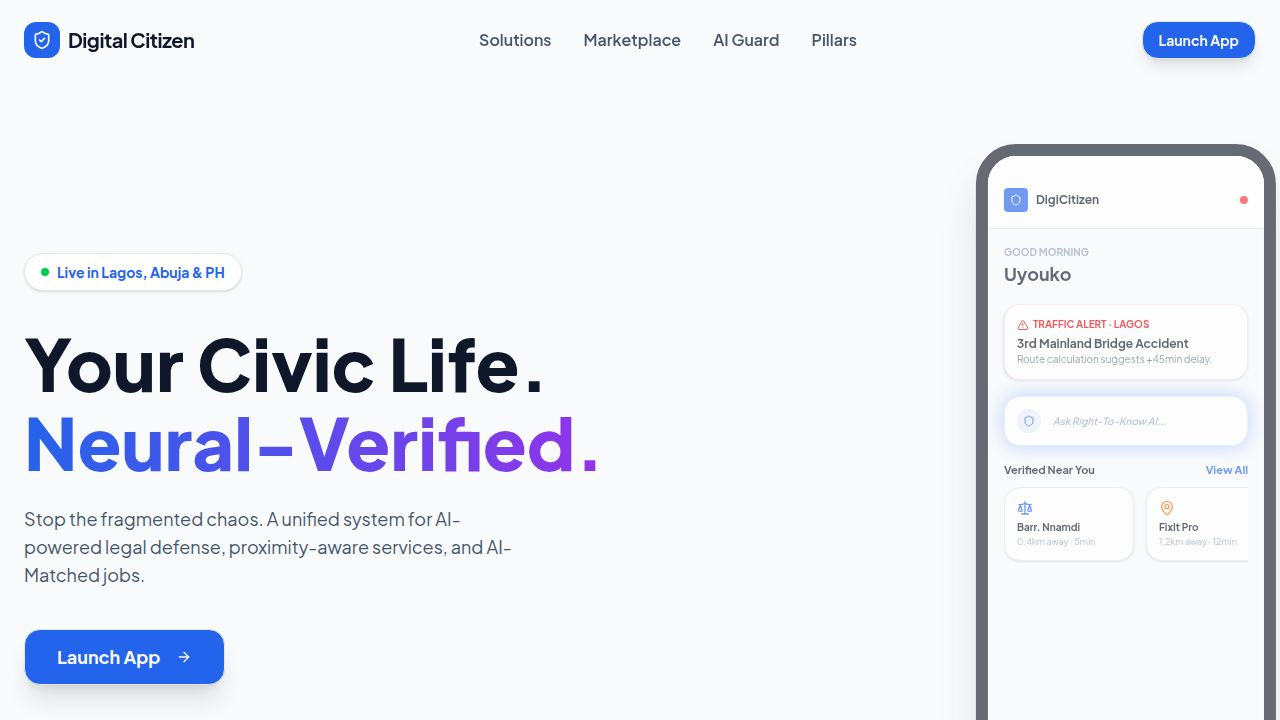
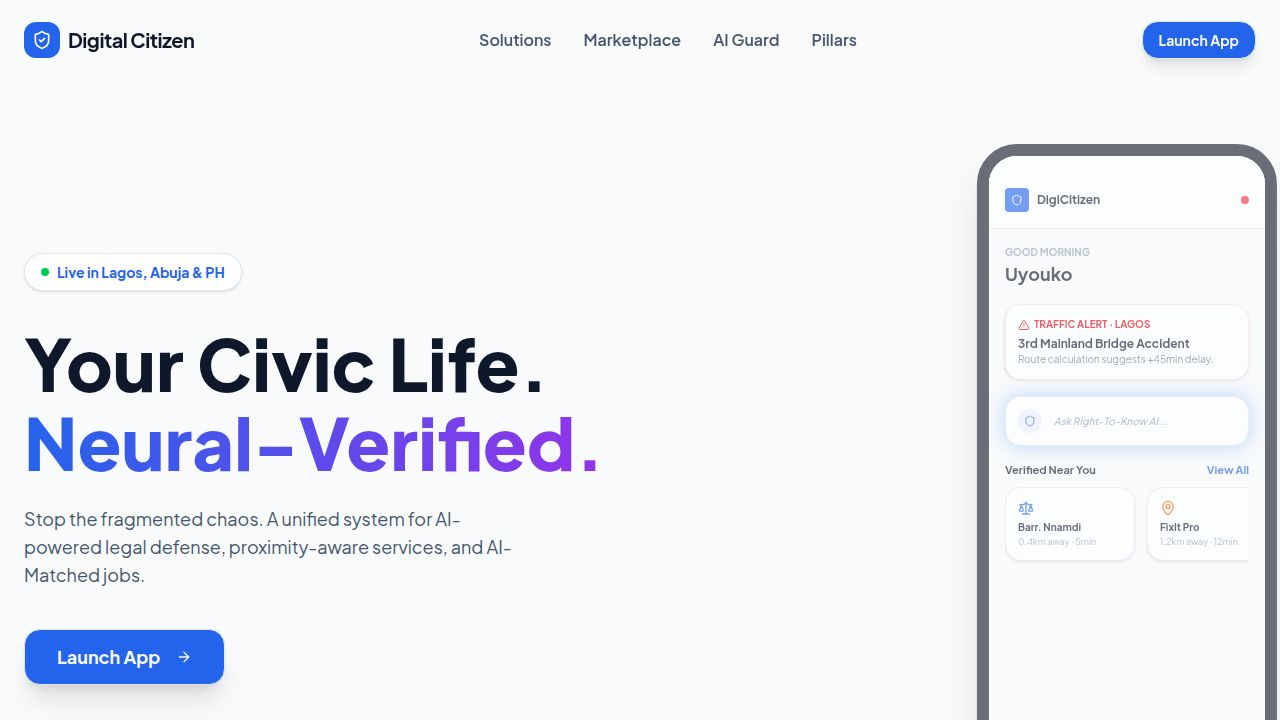
Update app branding and navigation to SabiRight
Rename app to SabiRight, update navigation links to SabiGuard, SabiMove, SabiMarket, and SabiSquare, and replace the default logo with the SabiRight icon.

Replit-Commit-Author: Agent
Replit-Commit-Session-Id: 5164c6ee-1e2a-4729-91ba-0cf92a8722cb
Replit-Commit-Checkpoint-Type: full_checkpoint
Replit-Commit-Event-Id: afcaaadd-c9e1-4691-9ad5-5dc7ecdb8021
Replit-Commit-Screenshot-Url: https://storage.googleapis.com/screenshot-production-us-central1/676fe46c-89a2-403b-a68c-b116a8b372ad/5164c6ee-1e2a-4729-91ba-0cf92a8722cb/mpSRrzM
Replit-Helium-Checkpoint-Created: true

diff --git a/client/src/components/layout/Navbar.tsx b/client/src/components/layout/Navbar.tsx
@@ -34,27 +34,32 @@ export function Navbar() {
     >
       <div className="max-w-7xl mx-auto px-6 h-full flex justify-between items-center">
         <Link href="/" className="flex items-center gap-2 group cursor-pointer">
-          <div className="bg-primary text-white w-9 h-9 rounded-lg flex items-center justify-center group-hover:scale-110 transition-transform">
-            <ShieldCheck className="h-5 w-5" />
-          </div>
+          <img 
+            src="/assets/sabiright-icon.png" 
+            alt="SabiRight" 
+            className="w-9 h-9 rounded-lg group-hover:scale-110 transition-transform"
+            onError={(e) => {
+              (e.target as HTMLImageElement).style.display = 'none';
+            }}
+          />
           <span className="text-xl font-bold tracking-tight text-slate-900">
-            Digital Citizen
+            SabiRight
           </span>
         </Link>
 
         {/* Desktop Menu */}
         <div className="hidden md:flex gap-8 font-semibold text-slate-600">
-          <button onClick={() => scrollToSection("problem")} className="hover:text-primary transition">
-            Solutions
-          </button>
-          <button onClick={() => scrollToSection("marketplace")} className="hover:text-primary transition">
-            Marketplace
+          <button onClick={() => scrollToSection("features")} className="hover:text-primary transition">
+            SabiGuard
           </button>
           <button onClick={() => scrollToSection("ai-agent")} className="hover:text-primary transition">
-            AI Guard
+            SabiMove
           </button>
-          <button onClick={() => scrollToSection("features")} className="hover:text-primary transition">
-            Pillars
+          <button onClick={() => scrollToSection("marketplace")} className="hover:text-primary transition">
+            SabiMarket
+          </button>
+          <button onClick={() => scrollToSection("problem")} className="hover:text-primary transition">
+            SabiSquare
           </button>
         </div>
 
@@ -78,14 +83,17 @@ export function Navbar() {
       {/* Mobile Menu */}
       {isMobileMenuOpen && (
         <div className="absolute top-20 left-0 w-full bg-white border-b shadow-lg p-6 flex flex-col gap-4 md:hidden">
-          <button onClick={() => scrollToSection("problem")} className="text-left font-semibold py-2">
-            Solutions
-          </button>
-          <button onClick={() => scrollToSection("marketplace")} className="text-left font-semibold py-2">
-            Marketplace
+          <button onClick={() => scrollToSection("features")} className="text-left font-semibold py-2">
+            SabiGuard
           </button>
           <button onClick={() => scrollToSection("ai-agent")} className="text-left font-semibold py-2">
-            AI Guard
+            SabiMove
+          </button>
+          <button onClick={() => scrollToSection("marketplace")} className="text-left font-semibold py-2">
+            SabiMarket
+          </button>
+          <button onClick={() => scrollToSection("problem")} className="text-left font-semibold py-2">
+            SabiSquare
           </button>
           <Link href="/app" className="inline-flex w-full">
             <Button className="w-full rounded-xl font-bold mt-2">Launch App</Button>